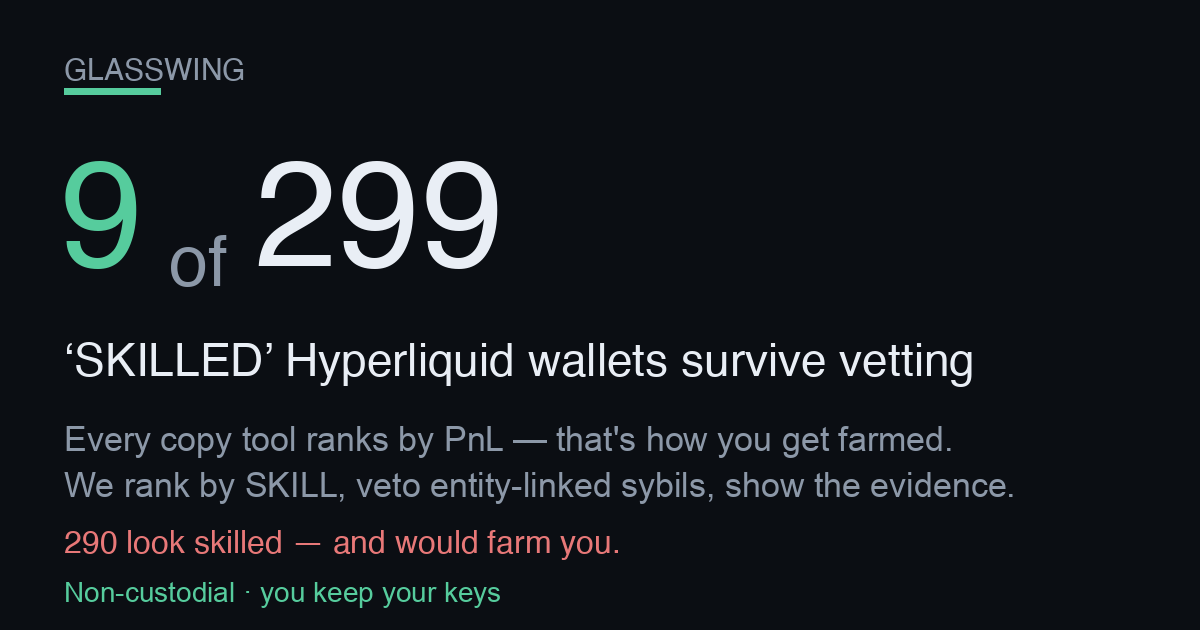
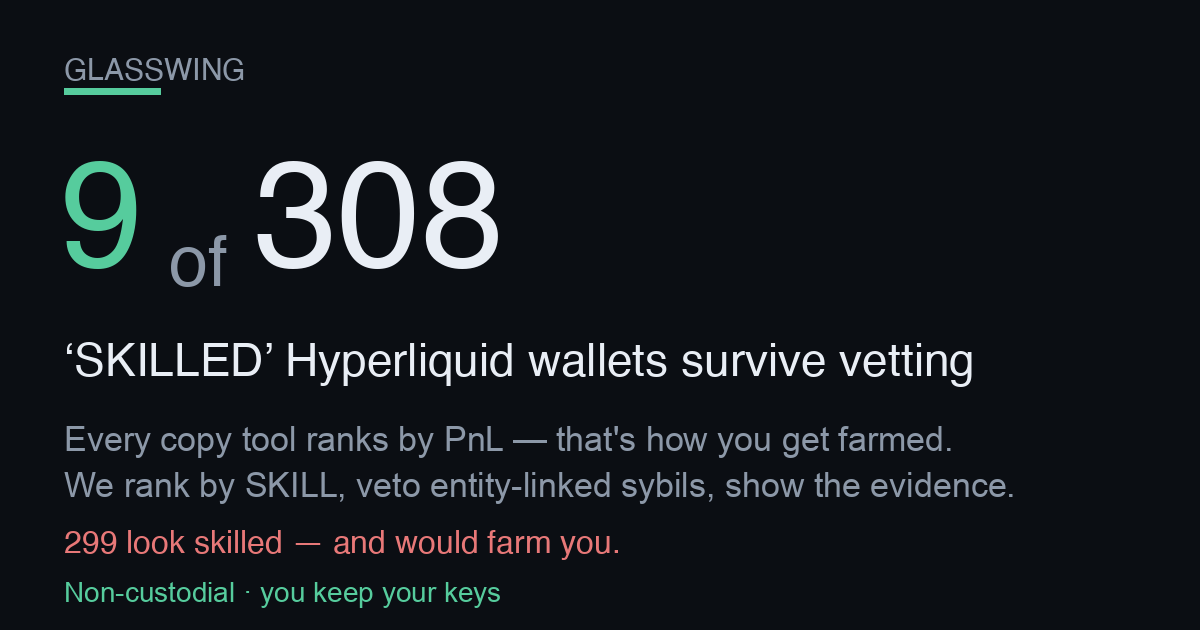
publish funnel 2026-08-28T13:54:41Z

Changed region(s): [[0.2158, 0.2714, 0.4317, 0.4222]]

diff --git a/screener.html b/screener.html
@@ -57,4 +57,4 @@ padding:11px 22px;font-size:15px;font-weight:800;border:1px solid var(--good)}
 footer{margin-top:34px;color:var(--muted);font-size:12px;line-height:1.6;
 border-top:1px solid var(--line);padding-top:16px}
 footer b{color:var(--ink)}
-</style></head><body><div class="wrap"><div class="nav"><a href="./index.html">&larr; Glasswing home</a><span class="sep">|</span><span>Edge Screener</span><span class="sep">|</span><a href="./dex.html">Copy a vetted leader</a></div><div class="hero"><h1>Hyperliquid Edge Screener</h1><div class="sub">Where&rsquo;s the carry, where a maker earns, and what&rsquo;s moving on Hyperliquid &mdash; live, computed from the public API. Bookmark it. Every number below is real and timestamped.</div><div class="stamp">Data as of <b>2026-08-27T00:55:38Z</b> &middot; rendered 2026-08-27T00:55:38Z &middot; 176 perps &middot; 101 HIP-3 (xyz) markets scanned</div></div><h2>Top funding &mdash; the carry table <span class="hint">perps ranked by annualized funding. Positive = longs pay shorts (a delta-neutral short earns it).</span></h2><div class="tblwrap"><table><thead><tr><th>Coin</th><th>Funding / hr</th><th>Annualized</th><th>Who pays</th><th>Open interest</th><th>24h volume</th></tr></thead><tbody><tr><td class="coin">CASHCAT</td><td>+0.0575%</td><td class="pos">+503.5%</td><td><span class="tag longs">longs pay</span></td><td>$37.3M</td><td>$34.3M</td></tr><tr><td class="coin">GAS<span class="tag thin" title="Low liquidity/OI &mdash; ADL &amp; liquidation risk; funding can flip">&#9888; thin</span></td><td>-0.0509%</td><td class="neg">-446.2%</td><td><span class="tag shorts">shorts pay</span></td><td>$91K</td><td>$306K</td></tr><tr><td class="coin">ACE</td><td>-0.0505%</td><td class="neg">-442.4%</td><td><span class="tag shorts">shorts pay</span></td><td>$1.4M</td><td>$1.2M</td></tr><tr><td class="coin">SAND<span class="tag thin" title="Low liquidity/OI &mdash; ADL &amp; liquidation risk; funding can flip">&#9888; thin</span></td><td>-0.0378%</td><td class="neg">-330.8%</td><td><span class="tag shorts">shorts pay</span></td><td>$513K</td><td>$249K</td></tr><tr><td class="coin">PURR</td><td>+0.0234%</td><td class="pos">+205.1%</td><td><span class="tag longs">longs pay</span></td><td>$14.0M</td><td>$3.1M</td></tr><tr><td class="coin">APEX</td><td>+0.0164%</td><td class="pos">+143.8%</td><td><span class="tag longs">longs pay</span></td><td>$3.3M</td><td>$298K</td></tr><tr><td class="coin">STX</td><td>-0.0160%</td><td class="neg">-140.0%</td><td><span class="tag shorts">shorts pay</span></td><td>$1.3M</td><td>$1.8M</td></tr><tr><td class="coin">CHIP</td><td>+0.0149%</td><td class="pos">+130.8%</td><td><span class="tag longs">longs pay</span></td><td>$6.0M</td><td>$1.9M</td></tr><tr><td class="coin">BSV<span class="tag thin" title="Low liquidity/OI &mdash; ADL &amp; liquidation risk; funding can flip">&#9888; thin</span></td><td>+0.0104%</td><td class="pos">+91.0%</td><td><span class="tag longs">longs pay</span></td><td>$611K</td><td>$218K</td></tr><tr><td class="coin">GOAT<span class="tag thin" title="Low liquidity/OI &mdash; ADL &amp; liquidation risk; funding can flip">&#9888; thin</span></td><td>+0.0097%</td><td class="pos">+85.3%</td><td><span class="tag longs">longs pay</span></td><td>$198K</td><td>$120K</td></tr><tr><td class="coin">MON</td><td>-0.0081%</td><td class="neg">-71.2%</td><td><span class="tag shorts">shorts pay</span></td><td>$39.5M</td><td>$8.0M</td></tr><tr><td class="coin">GRIFFAIN<span class="tag thin" title="Low liquidity/OI &mdash; ADL &amp; liquidation risk; funding can flip">&#9888; thin</span></td><td>+0.0069%</td><td class="pos">+60.1%</td><td><span class="tag longs">longs pay</span></td><td>$829K</td><td>$60K</td></tr></tbody></table></div><h2>Widest HIP-3 spreads &mdash; where a maker earns <span class="hint">xyz: markets by impact-price spread vs the ~0.6bps round-trip fee. A resting limit order captures the gap.</span></h2><div class="tblwrap"><table><thead><tr><th>Market</th><th>Spread</th><th>vs 0.6bps fee</th><th>Mid</th><th>24h volume</th></tr></thead><tbody><tr><td class="coin">xyz:BIRD<span class="tag gm">growth</span></td><td>247.6 bps</td><td class="pos">+247.0 bps</td><td>2.4142</td><td>$98K</td></tr><tr><td class="coin">xyz:NCLD<span class="tag gm">growth</span></td><td>159.2 bps</td><td class="pos">+158.6 bps</td><td>23.9845</td><td>$182K</td></tr><tr><td class="coin">xyz:NET<span class="tag gm">growth</span></td><td>114.2 bps</td><td class="pos">+113.6 bps</td><td>290.9200</td><td>$142K</td></tr><tr><td class="coin">xyz:EBAY<span class="tag gm">growth</span></td><td>82.6 bps</td><td class="pos">+82.0 bps</td><td>104.2250</td><td>$78K</td></tr><tr><td class="coin">xyz:SHAZ<span class="tag gm">growth</span></td><td>80.4 bps</td><td class="pos">+79.8 bps</td><td>60.9000</td><td>$306K</td></tr><tr><td class="coin">xyz:RDDT<span class="tag gm">growth</span></td><td>78.4 bps</td><td class="pos">+77.8 bps</td><td>155.9850</td><td>$368K</td></tr><tr><td class="coin">xyz:MAGS<span class="tag gm">growth</span></td><td>76.2 bps</td><td class="pos">+75.6 bps</td><td>67.8560</td><td>$42K</td></tr><tr><td class="coin">xyz:PURRDAT</td><td>61.6 bps</td><td class="pos">+61.0 bps</td><td>11.7375</td><td>$6.8M</td></tr><tr><td class="coin">xyz:DKNG<span class="tag gm">growth</span></td><td>58.5 bps</td><td class="pos">+57.9 bps</td><td>24.9165</td><td>$85K</td></tr><tr><td class="coin">xyz:GIGADEV<span class="tag gm">growth</span></td><td>57.5 bps</td><td class="pos">+56.9 bps</td><td>59.4760</td><td>$250K</td></tr><tr><td class="coin">xyz:LYTE<span class="tag gm">growth</span></td><td>50.4 bps</td><td class="pos">+49.8 bps</td><td>25.1870</td><td>$201K</td></tr><tr><td class="coin">xyz:QNT<span class="tag gm">growth</span></td><td>44.6 bps</td><td class="pos">+44.0 bps</td><td>54.0945</td><td>$299K</td></tr></tbody></table></div><h2>Momentum &amp; volume &mdash; what&rsquo;s moving <span class="hint">perps by 24h volume with the 24h price change (mark vs prior-day).</span></h2><div class="tblwrap"><table><thead><tr><th>Coin</th><th>24h volume</th><th>24h change</th><th>Mark</th></tr></thead><tbody><tr><td class="coin">BTC</td><td>$3.30B</td><td class="pos">+0.15%</td><td>78,725.80</td></tr><tr><td class="coin">ETH</td><td>$1.24B</td><td class="pos">+1.94%</td><td>2,492.70</td></tr><tr><td class="coin">HYPE</td><td>$777.1M</td><td class="pos">+1.09%</td><td>81.4278</td></tr><tr><td class="coin">SOL</td><td>$386.1M</td><td class="pos">+4.57%</td><td>101.0400</td></tr><tr><td class="coin">ZEC</td><td>$324.2M</td><td class="pos">+3.44%</td><td>803.9982</td></tr><tr><td class="coin">PUMP</td><td>$149.1M</td><td class="pos">+7.96%</td><td>0.004871</td></tr><tr><td class="coin">XRP</td><td>$119.5M</td><td class="neg">-1.93%</td><td>1.4050</td></tr><tr><td class="coin">FARTCOIN</td><td>$58.6M</td><td class="pos">+15.31%</td><td>0.21469</td></tr><tr><td class="coin">CASHCAT</td><td>$34.3M</td><td class="pos">+29.77%</td><td>0.2382</td></tr><tr><td class="coin">ENA</td><td>$33.9M</td><td class="pos">+2.35%</td><td>0.14655</td></tr><tr><td class="coin">LIT</td><td>$24.6M</td><td class="pos">+2.86%</td><td>3.3943</td></tr><tr><td class="coin">DOGE</td><td>$21.8M</td><td class="pos">+0.60%</td><td>0.086646</td></tr></tbody></table></div><div class="cta"><h2>These are the opportunities. Now copy the people who trade them.</h2><p class="lead">Spotting the carry and the spreads is the easy part &mdash; sizing, timing and risk are where most traders bleed. Copy the <b>skill-vetted</b> Hyperliquid leaders who actually trade these edges. Non-custodial: <b>you keep your keys and your funds</b> the entire time.</p><div class="row"><a class="btn" href="./index.html">See the vetted leaders &rarr;</a><a class="btn ghost" href="./dex.html">Start copying (non-custodial) &rarr;</a></div><div class="nc"><b>Non-custodial &amp; honest:</b> we never hold your keys or funds. Copying routes through a <b>0.01%</b> (1bp) on-chain builder fee &mdash; that is the only thing we ever charge, and it is the same fee shown on the copy page. Nothing on this screener is executed for you; it is information only.</div></div><footer><b>Not financial advice.</b> Funding rates, spreads and volumes are live snapshots that change every block; figures can be stale by the time you act. A high funding rate is <b>not free money</b> &mdash; the biggest rates sit on the thinnest, most crowded books (flagged &#9888; thin), where funding can flip against you and auto-deleveraging (ADL) or liquidation can close your position. &ldquo;Spread&rdquo; here is the impact-price spread (a conservative maker signal), not a guaranteed fill. HIP-3 markets are experimental. Do your own research and size responsibly. Glasswing is <b>non-custodial</b> &mdash; we never take custody of your keys or funds.</footer></div></body></html>
+</style></head><body><div class="wrap"><div class="nav"><a href="./index.html">&larr; Glasswing home</a><span class="sep">|</span><span>Edge Screener</span><span class="sep">|</span><a href="./dex.html">Copy a vetted leader</a></div><div class="hero"><h1>Hyperliquid Edge Screener</h1><div class="sub">Where&rsquo;s the carry, where a maker earns, and what&rsquo;s moving on Hyperliquid &mdash; live, computed from the public API. Bookmark it. Every number below is real and timestamped.</div><div class="stamp">Data as of <b>2026-08-28T13:51:09Z</b> &middot; rendered 2026-08-28T13:51:09Z &middot; 176 perps &middot; 103 HIP-3 (xyz) markets scanned</div></div><h2>Top funding &mdash; the carry table <span class="hint">perps ranked by annualized funding. Positive = longs pay shorts (a delta-neutral short earns it).</span></h2><div class="tblwrap"><table><thead><tr><th>Coin</th><th>Funding / hr</th><th>Annualized</th><th>Who pays</th><th>Open interest</th><th>24h volume</th></tr></thead><tbody><tr><td class="coin">ACE</td><td>-0.0503%</td><td class="neg">-440.6%</td><td><span class="tag shorts">shorts pay</span></td><td>$858K</td><td>$931K</td></tr><tr><td class="coin">SAND<span class="tag thin" title="Low liquidity/OI &mdash; ADL &amp; liquidation risk; funding can flip">&#9888; thin</span></td><td>-0.0284%</td><td class="neg">-248.9%</td><td><span class="tag shorts">shorts pay</span></td><td>$475K</td><td>$282K</td></tr><tr><td class="coin">SKR<span class="tag thin" title="Low liquidity/OI &mdash; ADL &amp; liquidation risk; funding can flip">&#9888; thin</span></td><td>-0.0256%</td><td class="neg">-224.4%</td><td><span class="tag shorts">shorts pay</span></td><td>$267K</td><td>$1.3M</td></tr><tr><td class="coin">MINA</td><td>-0.0142%</td><td class="neg">-124.4%</td><td><span class="tag shorts">shorts pay</span></td><td>$1.3M</td><td>$511K</td></tr><tr><td class="coin">XMR</td><td>+0.0106%</td><td class="pos">+93.3%</td><td><span class="tag longs">longs pay</span></td><td>$71.6M</td><td>$14.8M</td></tr><tr><td class="coin">OP</td><td>-0.0059%</td><td class="neg">-51.7%</td><td><span class="tag shorts">shorts pay</span></td><td>$3.1M</td><td>$1.3M</td></tr><tr><td class="coin">CHIP</td><td>+0.0053%</td><td class="pos">+46.5%</td><td><span class="tag longs">longs pay</span></td><td>$9.7M</td><td>$7.5M</td></tr><tr><td class="coin">GAS<span class="tag thin" title="Low liquidity/OI &mdash; ADL &amp; liquidation risk; funding can flip">&#9888; thin</span></td><td>-0.0043%</td><td class="neg">-37.2%</td><td><span class="tag shorts">shorts pay</span></td><td>$78K</td><td>$134K</td></tr><tr><td class="coin">TRUMP</td><td>-0.0033%</td><td class="neg">-29.3%</td><td><span class="tag shorts">shorts pay</span></td><td>$24.5M</td><td>$72.2M</td></tr><tr><td class="coin">ADA</td><td>-0.0025%</td><td class="neg">-22.2%</td><td><span class="tag shorts">shorts pay</span></td><td>$32.6M</td><td>$5.7M</td></tr><tr><td class="coin">APT</td><td>-0.0020%</td><td class="neg">-17.4%</td><td><span class="tag shorts">shorts pay</span></td><td>$3.9M</td><td>$2.2M</td></tr><tr><td class="coin">DOT</td><td>-0.0018%</td><td class="neg">-15.5%</td><td><span class="tag shorts">shorts pay</span></td><td>$5.0M</td><td>$1.2M</td></tr></tbody></table></div><h2>Widest HIP-3 spreads &mdash; where a maker earns <span class="hint">xyz: markets by impact-price spread vs the ~0.6bps round-trip fee. A resting limit order captures the gap.</span></h2><div class="tblwrap"><table><thead><tr><th>Market</th><th>Spread</th><th>vs 0.6bps fee</th><th>Mid</th><th>24h volume</th></tr></thead><tbody><tr><td class="coin">xyz:GIGADEV<span class="tag gm">growth</span></td><td>197.3 bps</td><td class="pos">+196.7 bps</td><td>58.7370</td><td>$168K</td></tr><tr><td class="coin">xyz:BIRD<span class="tag gm">growth</span></td><td>174.2 bps</td><td class="pos">+173.6 bps</td><td>2.6366</td><td>$385K</td></tr><tr><td class="coin">xyz:SHEIN<span class="tag gm">growth</span></td><td>95.6 bps</td><td class="pos">+95.0 bps</td><td>7.0549</td><td>$2.1M</td></tr><tr><td class="coin">xyz:BOT<span class="tag gm">growth</span></td><td>67.5 bps</td><td class="pos">+66.9 bps</td><td>27.1640</td><td>$392K</td></tr><tr><td class="coin">xyz:NET<span class="tag gm">growth</span></td><td>65.5 bps</td><td class="pos">+64.9 bps</td><td>302.9800</td><td>$195K</td></tr><tr><td class="coin">xyz:NCLD<span class="tag gm">growth</span></td><td>56.7 bps</td><td class="pos">+56.1 bps</td><td>22.8125</td><td>$115K</td></tr><tr><td class="coin">xyz:RDDT<span class="tag gm">growth</span></td><td>53.3 bps</td><td class="pos">+52.7 bps</td><td>155.6150</td><td>$169K</td></tr><tr><td class="coin">xyz:MAGS<span class="tag gm">growth</span></td><td>49.0 bps</td><td class="pos">+48.4 bps</td><td>69.1835</td><td>$117K</td></tr><tr><td class="coin">xyz:XBI<span class="tag gm">growth</span></td><td>44.5 bps</td><td class="pos">+43.9 bps</td><td>165.8250</td><td>$64K</td></tr><tr><td class="coin">xyz:SOFTBANK<span class="tag gm">growth</span></td><td>43.0 bps</td><td class="pos">+42.4 bps</td><td>32.3620</td><td>$451K</td></tr><tr><td class="coin">xyz:KR200<span class="tag gm">growth</span></td><td>39.9 bps</td><td class="pos">+39.3 bps</td><td>1,076.05</td><td>$505K</td></tr><tr><td class="coin">xyz:SHAZ<span class="tag gm">growth</span></td><td>39.4 bps</td><td class="pos">+38.8 bps</td><td>55.0025</td><td>$829K</td></tr></tbody></table></div><h2>Momentum &amp; volume &mdash; what&rsquo;s moving <span class="hint">perps by 24h volume with the 24h price change (mark vs prior-day).</span></h2><div class="tblwrap"><table><thead><tr><th>Coin</th><th>24h volume</th><th>24h change</th><th>Mark</th></tr></thead><tbody><tr><td class="coin">BTC</td><td>$3.47B</td><td class="neg">-0.40%</td><td>79,201.00</td></tr><tr><td class="coin">ETH</td><td>$1.18B</td><td class="pos">+0.33%</td><td>2,503.40</td></tr><tr><td class="coin">SOL</td><td>$967.7M</td><td class="neg">-1.08%</td><td>104.9729</td></tr><tr><td class="coin">HYPE</td><td>$839.6M</td><td class="pos">+1.17%</td><td>83.8780</td></tr><tr><td class="coin">ZEC</td><td>$250.3M</td><td class="pos">+0.07%</td><td>794.0600</td></tr><tr><td class="coin">ENA</td><td>$136.3M</td><td class="pos">+4.41%</td><td>0.16274</td></tr><tr><td class="coin">PUMP</td><td>$121.9M</td><td class="neg">-4.76%</td><td>0.004699</td></tr><tr><td class="coin">XRP</td><td>$106.3M</td><td class="neg">-1.49%</td><td>1.4169</td></tr><tr><td class="coin">TRUMP</td><td>$72.2M</td><td class="pos">+15.11%</td><td>2.7378</td></tr><tr><td class="coin">LIT</td><td>$51.3M</td><td class="pos">+0.07%</td><td>3.4294</td></tr><tr><td class="coin">FARTCOIN</td><td>$30.9M</td><td class="neg">-4.95%</td><td>0.20157</td></tr><tr><td class="coin">CASHCAT</td><td>$27.2M</td><td class="neg">-15.33%</td><td>0.19711</td></tr></tbody></table></div><div class="cta"><h2>These are the opportunities. Now copy the people who trade them.</h2><p class="lead">Spotting the carry and the spreads is the easy part &mdash; sizing, timing and risk are where most traders bleed. Copy the <b>skill-vetted</b> Hyperliquid leaders who actually trade these edges. Non-custodial: <b>you keep your keys and your funds</b> the entire time.</p><div class="row"><a class="btn" href="./index.html">See the vetted leaders &rarr;</a><a class="btn ghost" href="./dex.html">Start copying (non-custodial) &rarr;</a></div><div class="nc"><b>Non-custodial &amp; honest:</b> we never hold your keys or funds. Copying routes through a <b>0.01%</b> (1bp) on-chain builder fee &mdash; that is the only thing we ever charge, and it is the same fee shown on the copy page. Nothing on this screener is executed for you; it is information only.</div></div><footer><b>Not financial advice.</b> Funding rates, spreads and volumes are live snapshots that change every block; figures can be stale by the time you act. A high funding rate is <b>not free money</b> &mdash; the biggest rates sit on the thinnest, most crowded books (flagged &#9888; thin), where funding can flip against you and auto-deleveraging (ADL) or liquidation can close your position. &ldquo;Spread&rdquo; here is the impact-price spread (a conservative maker signal), not a guaranteed fill. HIP-3 markets are experimental. Do your own research and size responsibly. Glasswing is <b>non-custodial</b> &mdash; we never take custody of your keys or funds.</footer></div></body></html>

diff --git a/track.html b/track.html
@@ -62,35 +62,35 @@ font-weight:600;font-size:14px}
 <div class="wrap">
   <div class="hero">
     <h1>Self-verifying on-chain track record</h1>
-    <div class="big">$216.21</div>
+    <div class="big">$214.36</div>
     <div class="sub">current on-chain equity (perp + vault + spot USDC)</div>
     <div class="addr">0xbe6C1b09662BbE52CC93279D103Feb27985DdBc1</div>
-    <div class="stage building">39 days live — BUILDING</div>
+    <div class="stage building">40 days live — BUILDING</div>
   </div>
 
   
 
   <h2>On-chain figures <span style="color:var(--muted);font-weight:400;font-size:13px">
   &mdash; every one reproducible from the public info API</span></h2>
-  <table><tbody><tr><td class="k">On-chain equity (perp + vault + spot USDC)</td><td class="v">$216.21</td></tr><tr><td class="k">Perp account value</td><td class="v">$126.97</td></tr><tr><td class="k">Vault equity</td><td class="v">$44.73</td></tr><tr><td class="k">Spot USDC</td><td class="v">$44.51</td></tr><tr><td class="k">Withdrawable</td><td class="v">$37.70</td></tr></tbody></table>
+  <table><tbody><tr><td class="k">On-chain equity (perp + vault + spot USDC)</td><td class="v">$214.36</td></tr><tr><td class="k">Perp account value</td><td class="v">$124.63</td></tr><tr><td class="k">Vault equity</td><td class="v">$45.22</td></tr><tr><td class="k">Spot USDC</td><td class="v">$44.51</td></tr><tr><td class="k">Withdrawable</td><td class="v">$43.99</td></tr></tbody></table>
 
-  <h2>Vault deposits (on-chain)</h2><table><thead><tr><th>Vault address</th><th>Our equity</th></tr></thead><tbody><tr><td class="mono">0x2431edfcb662e6ff6deab113cc91878a0b53fb0f</td><td class="v">$0.01</td></tr><tr><td class="mono">0x697bc3dd77539fa84156d0e1c95287ea5524fd6b</td><td class="v">$16.92</td></tr><tr><td class="mono">0x8825e6ed11c7f9c0874579c9f4bba192b9e81c8f</td><td class="v">$0.13</td></tr><tr><td class="mono">0xc71f5a493b937e4b1798b86510630336a6dfd804</td><td class="v">$27.67</td></tr></tbody></table>
+  <h2>Vault deposits (on-chain)</h2><table><thead><tr><th>Vault address</th><th>Our equity</th></tr></thead><tbody><tr><td class="mono">0x2431edfcb662e6ff6deab113cc91878a0b53fb0f</td><td class="v">$0.01</td></tr><tr><td class="mono">0x697bc3dd77539fa84156d0e1c95287ea5524fd6b</td><td class="v">$16.95</td></tr><tr><td class="mono">0x8825e6ed11c7f9c0874579c9f4bba192b9e81c8f</td><td class="v">$0.13</td></tr><tr><td class="mono">0xc71f5a493b937e4b1798b86510630336a6dfd804</td><td class="v">$28.14</td></tr></tbody></table>
 
   <h2>Performance <span style="color:var(--muted);font-weight:400;font-size:13px">
   &mdash; honest stage, no annualization</span></h2>
-  <table><tbody><tr><td class="k">Days live (our formal record)</td><td class="v">39</td></tr><tr><td class="k">Maturity</td><td class="v">BUILDING</td></tr><tr><td class="k">Current real strategy income / day</td><td class="v">$0.1279</td></tr><tr><td class="k">Cumulative net income (if attributed)</td><td class="v">$36.5626</td></tr><tr><td class="k">Annualized APR</td><td class="v">shown per-day above</td></tr></tbody></table>
+  <table><tbody><tr><td class="k">Days live (our formal record)</td><td class="v">40</td></tr><tr><td class="k">Maturity</td><td class="v">BUILDING</td></tr><tr><td class="k">Current real strategy income / day</td><td class="v">$0.0665</td></tr><tr><td class="k">Cumulative net income (if attributed)</td><td class="v">$36.6213</td></tr><tr><td class="k">Annualized APR</td><td class="v">shown per-day above</td></tr></tbody></table>
 
   <h2>Strategy arms <span style="color:var(--muted);font-weight:400;font-size:13px">
   &mdash; internal marks, cross-checkable against chain equity</span></h2>
-  <table><thead><tr><th>Arm</th><th>Status</th><th>Real / day</th><th>Note</th></tr></thead><tbody><tr><td class="v">carry</td><td><span class="badge live">live</span></td><td class="v">$0.1279</td><td class="k"></td></tr><tr><td class="v">copy</td><td><span class="badge live">live</span></td><td class="v">$0.0000</td><td class="k"></td></tr><tr><td class="v">builder</td><td><span class="badge off">—</span></td><td class="v">$0.0000</td><td class="k">proven live; $0 until distributed (∝ users&#x27; volume)</td></tr></tbody></table>
+  <table><thead><tr><th>Arm</th><th>Status</th><th>Real / day</th><th>Note</th></tr></thead><tbody><tr><td class="v">carry</td><td><span class="badge live">live</span></td><td class="v">$0.0665</td><td class="k"></td></tr><tr><td class="v">copy</td><td><span class="badge live">live</span></td><td class="v">$0.0000</td><td class="k"></td></tr><tr><td class="v">builder</td><td><span class="badge off">—</span></td><td class="v">$0.0000</td><td class="k">proven live; $0 until distributed (∝ users&#x27; volume)</td></tr></tbody></table>
 
   <h2>Reproduce it</h2>
   <div class="verify"><h3>Verify this yourself</h3><p>These are PUBLIC calls. Run them yourself against the address below and you will re-derive every on-chain figure on this page. equity_usd = perp accountValue + vault equity + spot USDC. Endpoint: https://api.hyperliquid.xyz/info</p><div class="cn">clearinghouseState &rarr; marginSummary.accountValue (perp value), withdrawable, marginSummary.totalMarginUsed</div><pre>curl -s -X POST https://api.hyperliquid.xyz/info -H &#x27;Content-Type: application/json&#x27; -d &#x27;{&quot;type&quot;: &quot;clearinghouseState&quot;, &quot;user&quot;: &quot;0xbe6C1b09662BbE52CC93279D103Feb27985DdBc1&quot;}&#x27;</pre><div class="cn">userVaultEquities &rarr; sum of each entry&#x27;s equity (our vault deposits)</div><pre>curl -s -X POST https://api.hyperliquid.xyz/info -H &#x27;Content-Type: application/json&#x27; -d &#x27;{&quot;type&quot;: &quot;userVaultEquities&quot;, &quot;user&quot;: &quot;0xbe6C1b09662BbE52CC93279D103Feb27985DdBc1&quot;}&#x27;</pre><div class="cn">spotClearinghouseState &rarr; balances[] where coin==USDC -&gt; total (spot USDC)</div><pre>curl -s -X POST https://api.hyperliquid.xyz/info -H &#x27;Content-Type: application/json&#x27; -d &#x27;{&quot;type&quot;: &quot;spotClearinghouseState&quot;, &quot;user&quot;: &quot;0xbe6C1b09662BbE52CC93279D103Feb27985DdBc1&quot;}&#x27;</pre></div>
 
   <footer>
     <div>Self-verifying: every on-chain figure is reproducible by querying Hyperliquid&#x27;s public info API for the stated address. Internal daily marks are cross-checkable against on-chain equity. EARLY-STAGE record — not a mature track record, not an APR promise, not financial advice. Past performance != future results.</div>
-    <div class="stamp">Generated at 2026-08-27T00:53:21Z &middot; internal marks
-    mtime 2026-08-26T22:24:34Z &middot; static receipt, no live
+    <div class="stamp">Generated at 2026-08-28T13:49:36Z &middot; internal marks
+    mtime 2026-08-28T10:26:12Z &middot; static receipt, no live
     authority — this page never trades or arms.</div>
   </footer>
 </div>

diff --git a/index.html b/index.html
@@ -3,8 +3,8 @@
 <head>
 <meta charset="utf-8">
 <meta name="viewport" content="width=device-width, initial-scale=1">
-<title>9 of 299 SKILLED Hyperliquid wallets survive vetting</title>
-<meta name="description" content="9 of 299 leaderboard-SKILLED Hyperliquid wallets survive vetting. Copy only the survivors, non-custodial — you keep your keys and funds.">
+<title>9 of 308 SKILLED Hyperliquid wallets survive vetting</title>
+<meta name="description" content="9 of 308 leaderboard-SKILLED Hyperliquid wallets survive vetting. Copy only the survivors, non-custodial — you keep your keys and funds.">
 <link rel="canonical" href="https://dynobit.github.io/glasswing/">
 <meta name="robots" content="index,follow">
 <meta name="theme-color" content="#0b0e13">
@@ -14,14 +14,14 @@
      head, not this. og:url is the canonical Pages home so every share resolves here. -->
 <meta property="og:type" content="website">
 <meta property="og:site_name" content="Glasswing">
-<meta property="og:title" content="9 of 299 SKILLED Hyperliquid wallets survive vetting">
+<meta property="og:title" content="9 of 308 SKILLED Hyperliquid wallets survive vetting">
 <meta property="og:description" content="Every copy tool ranks leaders by PnL — which is how you get farmed. This ranks by SKILL, then vetoes entity-linked sybils, and shows the evidence for every reject. Non-custodial: you keep your keys.">
 <meta property="og:url" content="https://dynobit.github.io/glasswing/">
 <meta property="og:image" content="https://dynobit.github.io/glasswing/og-card.png">
 <meta property="og:image:width" content="1200">
 <meta property="og:image:height" content="630">
 <meta name="twitter:card" content="summary_large_image">
-<meta name="twitter:title" content="9 of 299 SKILLED Hyperliquid wallets survive vetting">
+<meta name="twitter:title" content="9 of 308 SKILLED Hyperliquid wallets survive vetting">
 <meta name="twitter:description" content="Skill-ranked (not PnL-ranked) HL copy-leaders, entity-linked sybils vetoed with evidence. Non-custodial.">
 <meta name="twitter:image" content="https://dynobit.github.io/glasswing/og-card.png">
 <style>
@@ -135,18 +135,18 @@ footer .nc{color:var(--good);font-weight:600}
 
   <!-- 1. HERO — the shareable hook (screenshot-worthy) -->
   <div class="hero">
-    <h1><span class="big">9 of 299</span> &lsquo;SKILLED&rsquo;
+    <h1><span class="big">9 of 308</span> &lsquo;SKILLED&rsquo;
     Hyperliquid wallets survive vetting</h1>
-    <div class="sub">The other <span class="trap">290</span> look skilled on a
+    <div class="sub">The other <span class="trap">299</span> look skilled on a
     raw copy leaderboard but would farm you &mdash; here are the
-    <span class="trap">290</span> that would. Entity-linked sybils,
-    wash-traded track records, or simply unscreened. 3.0% survive.
-    Universe: 2686 scored wallets.</div>
+    <span class="trap">299</span> that would. Entity-linked sybils,
+    wash-traded track records, or simply unscreened. 2.9% survive.
+    Universe: 2798 scored wallets.</div>
   </div>
 
   <!-- 2. THE WEDGE — the marketing (why us, not any other copy tool) -->
   <div class="wedge"><span class="them">Every other copy tool ranks all
-    299 by PnL and calls it a leaderboard.</span> We are the only one that
+    308 by PnL and calls it a leaderboard.</span> We are the only one that
     <b>flags the entity-linked and farming wallets with on-chain evidence</b> &mdash;
     transfer-graph linkage between wallets and arXiv memecoin farm-features &mdash;
     and shows you only the 9 that survive. A high PnL is exactly what a
@@ -268,7 +268,7 @@ footer .nc{color:var(--good);font-weight:600}
   <footer>
     <div class="nc">Non-custodial: we never hold your keys or funds. No server, no backend. Your browser talks only to Hyperliquid&#x27;s public API.</div>
     <div>Advisory. Skill = sign-randomization null vs luck. Entity veto = public transfer-graph linkage. Farm screen = arXiv:2601.08641 features (memecoin thresholds, HL-uncalibrated). Follower-realizable PnL is NOT yet proven — a PRE-COMMITTED forward test is in progress (0/2 windows, earliest 2026-08-13); the copyability claim publishes only when the pre-registered windows close, so it cannot be discovery-mined. Exit-alpha shown is advisory. Not financial advice.</div>
-    <div class="stamp">Generated at 2026-08-27T00:54:03Z &middot; single-file funnel,
+    <div class="stamp">Generated at 2026-08-28T13:49:53Z &middot; single-file funnel,
     no live authority. In-browser order signing is IMPLEMENTED (real secp256k1 +
     keccak + msgpack EIP-712 from a pinned CDN) but UNVALIDATED against Hyperliquid:
     mainnet is blocked until a testnet order is proven accepted.</div>

diff --git a/dex.html b/dex.html
@@ -112,8 +112,8 @@ footer .nc{color:var(--good);font-weight:600}
     funds and your keys the whole time. Two signatures in your own wallet, an
     ephemeral in-browser agent key that can trade but never withdraw, and a
     client-side loop that mirrors only the
-    <b>9 of 299</b> vetted survivors
-    (universe: 2686 scored wallets). No server, no backend.</div>
+    <b>9 of 308</b> vetted survivors
+    (universe: 2798 scored wallets). No server, no backend.</div>
     <div class="tag">static bundle &middot; IPFS-publishable &middot; revenue accrues on-chain</div>
   </div>
 
@@ -217,7 +217,7 @@ footer .nc{color:var(--good);font-weight:600}
   <footer>
     <div class="nc">Pure DEX, self-custodial. No server, no backend, no key we ever hold. Your browser talks only to Hyperliquid&#x27;s public API.</div>
     <div>Advisory. Skill = sign-randomization null vs luck. Entity veto = public transfer-graph linkage. Farm screen = arXiv:2601.08641 features (memecoin thresholds, HL-uncalibrated). Follower-realizable PnL is NOT yet proven — a PRE-COMMITTED forward test is in progress (0/2 windows, earliest 2026-08-13); the copyability claim publishes only when the pre-registered windows close, so it cannot be discovery-mined. Exit-alpha shown is advisory. Not financial advice.</div>
-    <div class="stamp">Generated at 2026-08-27T00:54:03Z &middot; static,
+    <div class="stamp">Generated at 2026-08-28T13:49:53Z &middot; static,
     self-custodial surface, no live authority. In-browser order signing is
     IMPLEMENTED (real secp256k1 + keccak + msgpack EIP-712 from a pinned CDN) but
     UNVALIDATED against Hyperliquid: mainnet is blocked until a testnet order is
